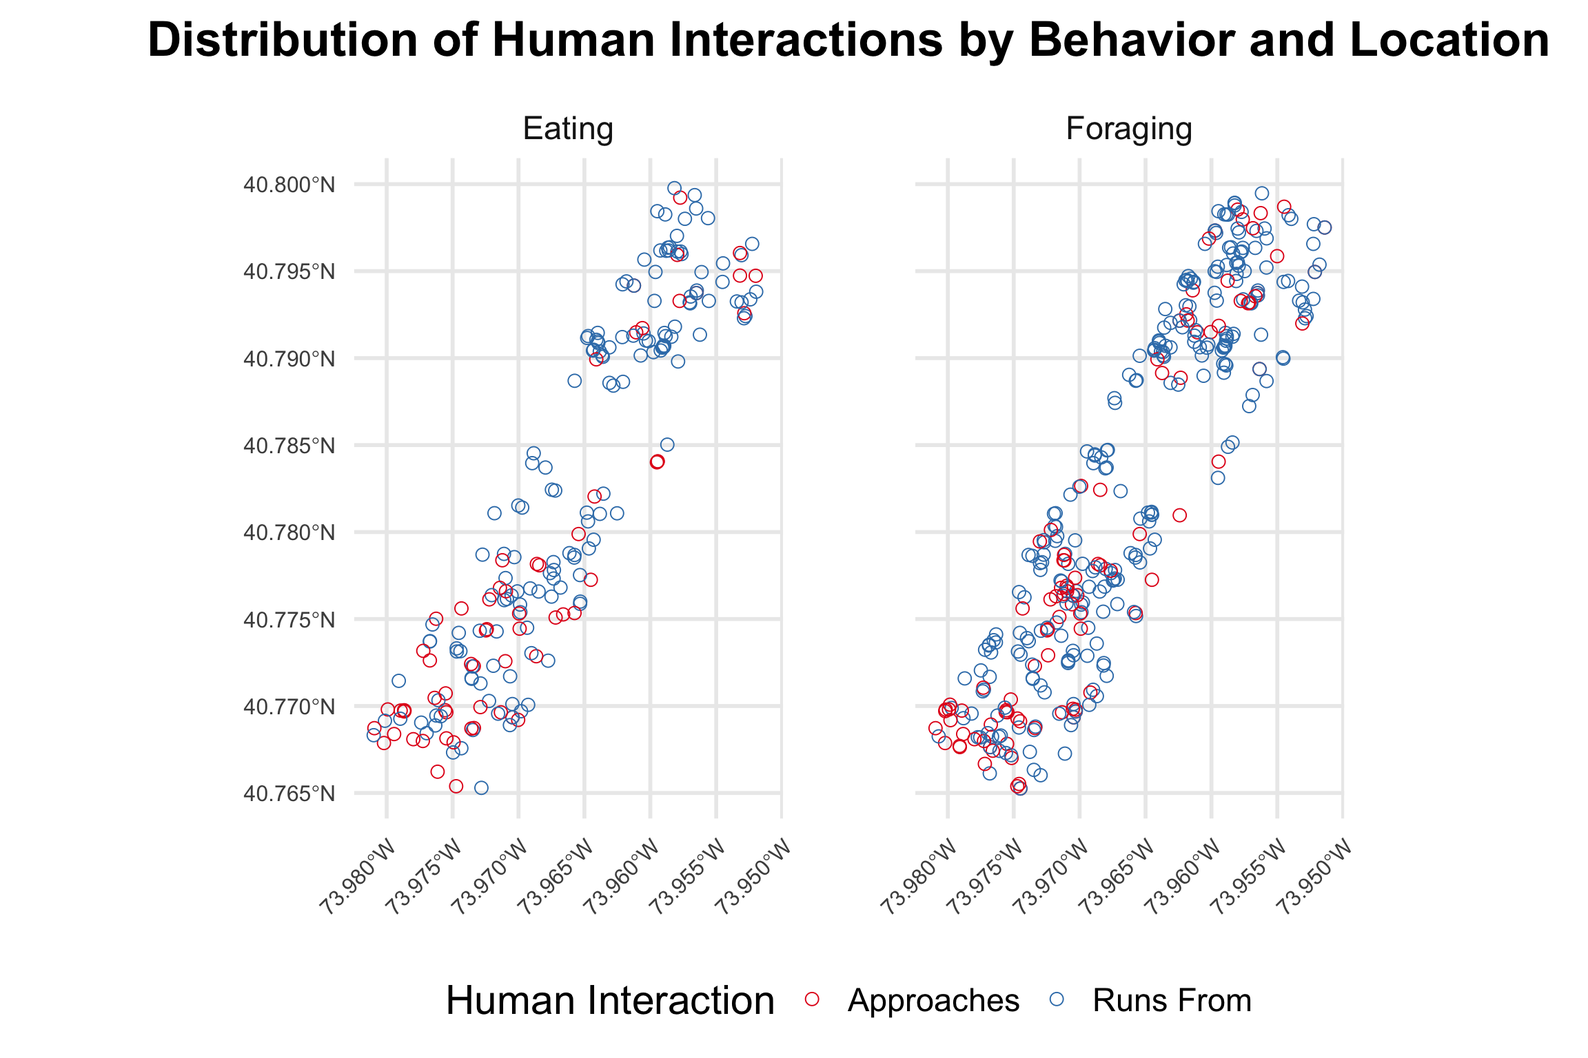
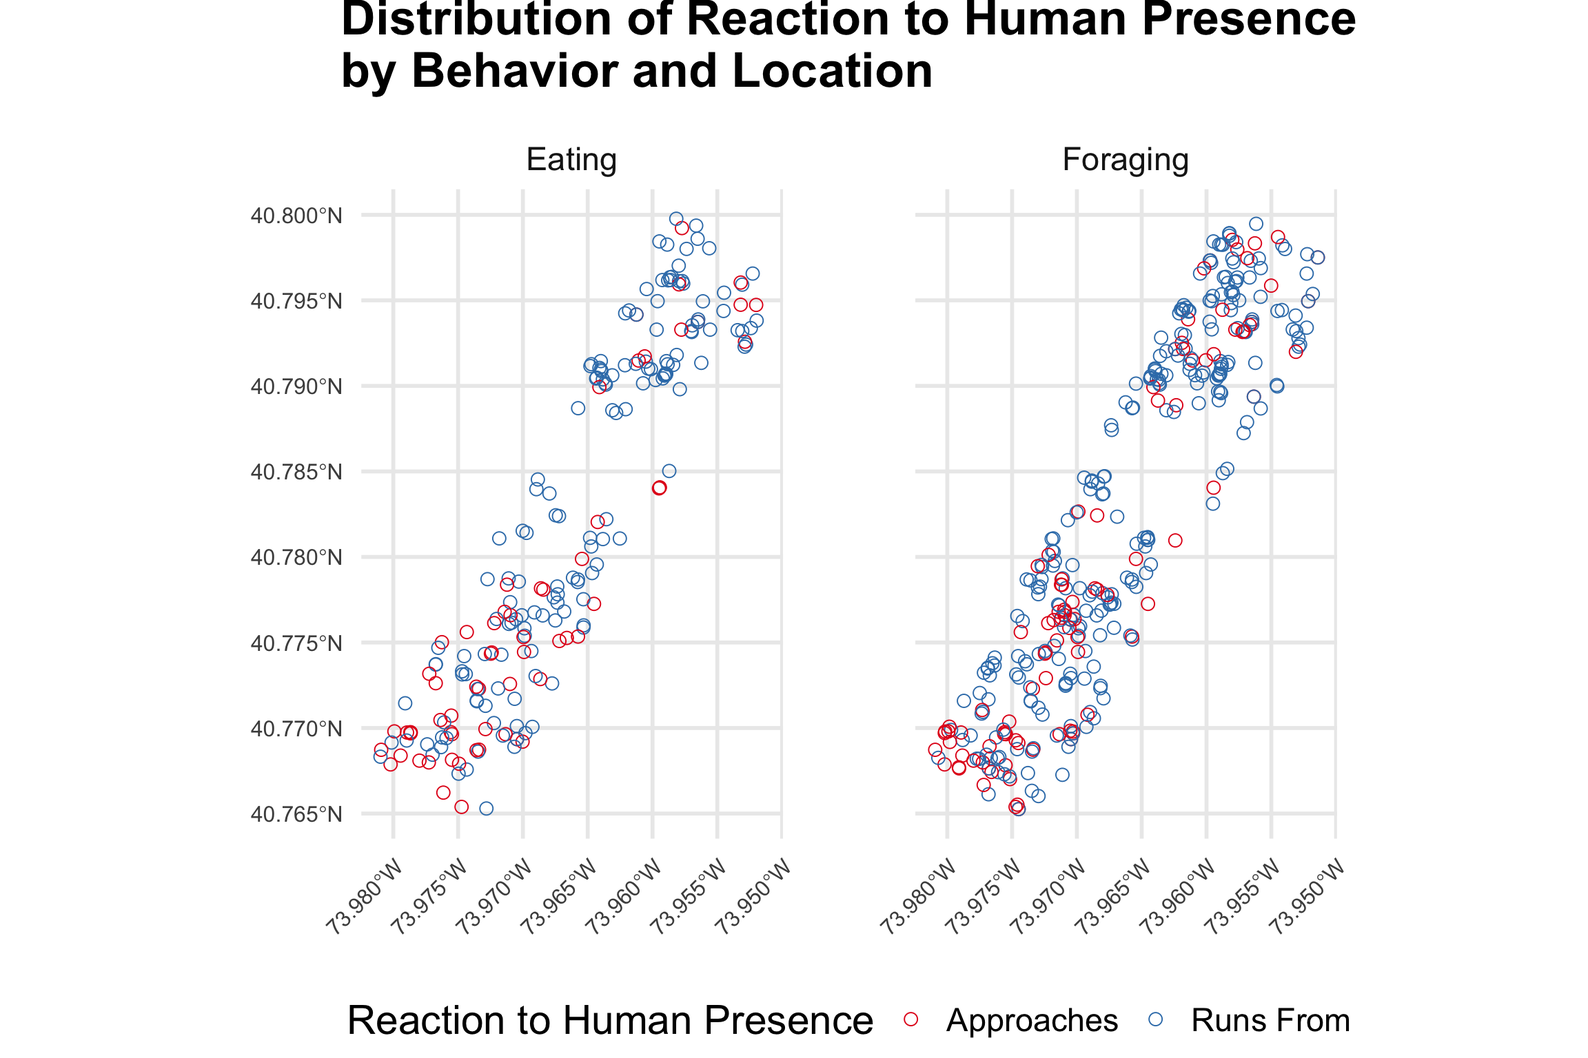
Updates

Changed region(s): [[0.0938, 0.0, 1.0, 0.875], [0.5625, 0.0938, 0.8438, 0.875], [0.2188, 0.9375, 0.8438, 1.0]]

diff --git a/docs/results.html b/docs/results.html
@@ -455,41 +455,44 @@ pre > code.sourceCode > span > a:first-child::before { text-decoration: underlin
 <div class="cell">
 <details class="code-fold">
 <summary>Code</summary>
-<div class="sourceCode cell-code" id="cb6"><pre class="sourceCode r code-with-copy"><code class="sourceCode r"><span id="cb6-1"><a href="#cb6-1" aria-hidden="true" tabindex="-1"></a>bubble_data <span class="ot">&lt;-</span> squirrel_data <span class="sc">|&gt;</span></span>
-<span id="cb6-2"><a href="#cb6-2" aria-hidden="true" tabindex="-1"></a>  <span class="fu">select</span>(X, Y, Eating, Foraging, Approaches, Runs.from) <span class="sc">|&gt;</span></span>
-<span id="cb6-3"><a href="#cb6-3" aria-hidden="true" tabindex="-1"></a>  <span class="fu">pivot_longer</span>(</span>
-<span id="cb6-4"><a href="#cb6-4" aria-hidden="true" tabindex="-1"></a>    <span class="at">cols =</span> <span class="fu">c</span>(Eating, Foraging),</span>
-<span id="cb6-5"><a href="#cb6-5" aria-hidden="true" tabindex="-1"></a>    <span class="at">names_to =</span> <span class="st">"Behavior"</span>,</span>
-<span id="cb6-6"><a href="#cb6-6" aria-hidden="true" tabindex="-1"></a>    <span class="at">values_to =</span> <span class="st">"Observed_Behavior"</span></span>
-<span id="cb6-7"><a href="#cb6-7" aria-hidden="true" tabindex="-1"></a>  ) <span class="sc">|&gt;</span></span>
-<span id="cb6-8"><a href="#cb6-8" aria-hidden="true" tabindex="-1"></a>  <span class="fu">pivot_longer</span>(</span>
-<span id="cb6-9"><a href="#cb6-9" aria-hidden="true" tabindex="-1"></a>    <span class="at">cols =</span> <span class="fu">c</span>(Approaches, Runs.from),</span>
-<span id="cb6-10"><a href="#cb6-10" aria-hidden="true" tabindex="-1"></a>    <span class="at">names_to =</span> <span class="st">"Interaction"</span>,</span>
-<span id="cb6-11"><a href="#cb6-11" aria-hidden="true" tabindex="-1"></a>    <span class="at">values_to =</span> <span class="st">"Observed_Interaction"</span></span>
-<span id="cb6-12"><a href="#cb6-12" aria-hidden="true" tabindex="-1"></a>  ) <span class="sc">|&gt;</span></span>
-<span id="cb6-13"><a href="#cb6-13" aria-hidden="true" tabindex="-1"></a>  <span class="fu">filter</span>(Observed_Behavior <span class="sc">==</span> <span class="st">"true"</span> <span class="sc">&amp;</span> Observed_Interaction <span class="sc">==</span> <span class="st">"true"</span>) <span class="sc">|&gt;</span></span>
-<span id="cb6-14"><a href="#cb6-14" aria-hidden="true" tabindex="-1"></a>  <span class="fu">group_by</span>(X, Y, Behavior, Interaction) <span class="sc">|&gt;</span></span>
-<span id="cb6-15"><a href="#cb6-15" aria-hidden="true" tabindex="-1"></a>  <span class="fu">summarize</span>(<span class="at">Count =</span> <span class="fu">n</span>(), <span class="at">.groups =</span> <span class="st">"drop"</span>) <span class="sc">|&gt;</span></span>
-<span id="cb6-16"><a href="#cb6-16" aria-hidden="true" tabindex="-1"></a>  <span class="fu">st_as_sf</span>(<span class="at">coords =</span> <span class="fu">c</span>(<span class="st">"X"</span>, <span class="st">"Y"</span>), <span class="at">crs =</span> <span class="dv">4326</span>)</span>
-<span id="cb6-17"><a href="#cb6-17" aria-hidden="true" tabindex="-1"></a></span>
-<span id="cb6-18"><a href="#cb6-18" aria-hidden="true" tabindex="-1"></a><span class="co"># Plotting using geom_sf</span></span>
-<span id="cb6-19"><a href="#cb6-19" aria-hidden="true" tabindex="-1"></a><span class="fu">ggplot</span>() <span class="sc">+</span></span>
-<span id="cb6-20"><a href="#cb6-20" aria-hidden="true" tabindex="-1"></a>  <span class="fu">geom_sf</span>(<span class="at">data =</span> bubble_data, <span class="fu">aes</span>(<span class="at">color =</span> Interaction), <span class="at">size =</span> <span class="dv">3</span>, <span class="at">shape =</span> <span class="dv">1</span>, <span class="at">alpha =</span> <span class="dv">1</span>) <span class="sc">+</span></span>
-<span id="cb6-21"><a href="#cb6-21" aria-hidden="true" tabindex="-1"></a>  <span class="fu">facet_wrap</span>(<span class="sc">~</span>Behavior) <span class="sc">+</span></span>
-<span id="cb6-22"><a href="#cb6-22" aria-hidden="true" tabindex="-1"></a>  <span class="fu">labs</span>(</span>
-<span id="cb6-23"><a href="#cb6-23" aria-hidden="true" tabindex="-1"></a>    <span class="at">title =</span> <span class="fu">expression</span>(<span class="fu">bold</span>(<span class="st">"Distribution of Human Interactions by Behavior and Location"</span>)),</span>
-<span id="cb6-24"><a href="#cb6-24" aria-hidden="true" tabindex="-1"></a>    <span class="at">size =</span> <span class="st">"Interaction Count"</span>,</span>
-<span id="cb6-25"><a href="#cb6-25" aria-hidden="true" tabindex="-1"></a>    <span class="at">color =</span> <span class="st">"Human Interaction"</span></span>
-<span id="cb6-26"><a href="#cb6-26" aria-hidden="true" tabindex="-1"></a>  ) <span class="sc">+</span></span>
-<span id="cb6-27"><a href="#cb6-27" aria-hidden="true" tabindex="-1"></a>  <span class="fu">theme_minimal</span>(<span class="dv">22</span>) <span class="sc">+</span></span>
-<span id="cb6-28"><a href="#cb6-28" aria-hidden="true" tabindex="-1"></a>  <span class="fu">scale_color_brewer</span>(<span class="at">palette =</span> <span class="st">"Set1"</span>,</span>
-<span id="cb6-29"><a href="#cb6-29" aria-hidden="true" tabindex="-1"></a>                     <span class="at">labels =</span> <span class="fu">c</span>(<span class="st">"Approaches"</span> <span class="ot">=</span> <span class="st">"Approaches"</span>, </span>
-<span id="cb6-30"><a href="#cb6-30" aria-hidden="true" tabindex="-1"></a>                                <span class="st">"Runs.from"</span> <span class="ot">=</span> <span class="st">"Runs From"</span>)) <span class="sc">+</span></span>
-<span id="cb6-31"><a href="#cb6-31" aria-hidden="true" tabindex="-1"></a>  <span class="fu">theme</span>(<span class="at">axis.text.x =</span> <span class="fu">element_text</span>(<span class="at">angle =</span> <span class="dv">45</span>, <span class="at">hjust =</span> <span class="dv">1</span>, <span class="at">size =</span> <span class="dv">12</span>), </span>
-<span id="cb6-32"><a href="#cb6-32" aria-hidden="true" tabindex="-1"></a>        <span class="at">axis.text.y =</span> <span class="fu">element_text</span>(<span class="at">size =</span> <span class="dv">12</span>), </span>
-<span id="cb6-33"><a href="#cb6-33" aria-hidden="true" tabindex="-1"></a>        <span class="at">panel.spacing =</span> <span class="fu">unit</span>(<span class="dv">5</span>, <span class="st">"lines"</span>),</span>
-<span id="cb6-34"><a href="#cb6-34" aria-hidden="true" tabindex="-1"></a>        <span class="at">legend.position =</span> <span class="st">"bottom"</span>,</span>
-<span id="cb6-35"><a href="#cb6-35" aria-hidden="true" tabindex="-1"></a>        <span class="at">plot.title =</span> <span class="fu">element_text</span>(<span class="at">hjust =</span> <span class="fl">0.5</span>) )</span></code><button title="Copy to Clipboard" class="code-copy-button"><i class="bi"></i></button></pre></div>
+<div class="sourceCode cell-code" id="cb6"><pre class="sourceCode r code-with-copy"><code class="sourceCode r"><span id="cb6-1"><a href="#cb6-1" aria-hidden="true" tabindex="-1"></a><span class="co"># Data for the plot</span></span>
+<span id="cb6-2"><a href="#cb6-2" aria-hidden="true" tabindex="-1"></a>bubble_data <span class="ot">&lt;-</span> squirrel_data <span class="sc">|&gt;</span></span>
+<span id="cb6-3"><a href="#cb6-3" aria-hidden="true" tabindex="-1"></a>  <span class="fu">select</span>(X, Y, Eating, Foraging, Approaches, Runs.from) <span class="sc">|&gt;</span></span>
+<span id="cb6-4"><a href="#cb6-4" aria-hidden="true" tabindex="-1"></a>  <span class="fu">pivot_longer</span>(</span>
+<span id="cb6-5"><a href="#cb6-5" aria-hidden="true" tabindex="-1"></a>    <span class="at">cols =</span> <span class="fu">c</span>(Eating, Foraging),</span>
+<span id="cb6-6"><a href="#cb6-6" aria-hidden="true" tabindex="-1"></a>    <span class="at">names_to =</span> <span class="st">"Behavior"</span>,</span>
+<span id="cb6-7"><a href="#cb6-7" aria-hidden="true" tabindex="-1"></a>    <span class="at">values_to =</span> <span class="st">"Observed_Behavior"</span></span>
+<span id="cb6-8"><a href="#cb6-8" aria-hidden="true" tabindex="-1"></a>  ) <span class="sc">|&gt;</span></span>
+<span id="cb6-9"><a href="#cb6-9" aria-hidden="true" tabindex="-1"></a>  <span class="fu">pivot_longer</span>(</span>
+<span id="cb6-10"><a href="#cb6-10" aria-hidden="true" tabindex="-1"></a>    <span class="at">cols =</span> <span class="fu">c</span>(Approaches, Runs.from),</span>
+<span id="cb6-11"><a href="#cb6-11" aria-hidden="true" tabindex="-1"></a>    <span class="at">names_to =</span> <span class="st">"Interaction"</span>,</span>
+<span id="cb6-12"><a href="#cb6-12" aria-hidden="true" tabindex="-1"></a>    <span class="at">values_to =</span> <span class="st">"Observed_Interaction"</span></span>
+<span id="cb6-13"><a href="#cb6-13" aria-hidden="true" tabindex="-1"></a>  ) <span class="sc">|&gt;</span></span>
+<span id="cb6-14"><a href="#cb6-14" aria-hidden="true" tabindex="-1"></a>  <span class="fu">filter</span>(Observed_Behavior <span class="sc">==</span> <span class="st">"true"</span> <span class="sc">&amp;</span> Observed_Interaction <span class="sc">==</span> <span class="st">"true"</span>) <span class="sc">|&gt;</span></span>
+<span id="cb6-15"><a href="#cb6-15" aria-hidden="true" tabindex="-1"></a>  <span class="fu">group_by</span>(X, Y, Behavior, Interaction) <span class="sc">|&gt;</span></span>
+<span id="cb6-16"><a href="#cb6-16" aria-hidden="true" tabindex="-1"></a>  <span class="fu">summarize</span>(<span class="at">Count =</span> <span class="fu">n</span>(), <span class="at">.groups =</span> <span class="st">"drop"</span>) <span class="sc">|&gt;</span></span>
+<span id="cb6-17"><a href="#cb6-17" aria-hidden="true" tabindex="-1"></a>  <span class="fu">st_as_sf</span>(<span class="at">coords =</span> <span class="fu">c</span>(<span class="st">"X"</span>, <span class="st">"Y"</span>), <span class="at">crs =</span> <span class="dv">4326</span>)</span>
+<span id="cb6-18"><a href="#cb6-18" aria-hidden="true" tabindex="-1"></a></span>
+<span id="cb6-19"><a href="#cb6-19" aria-hidden="true" tabindex="-1"></a><span class="co"># Plotting accurate spatial distribution using geom_sf</span></span>
+<span id="cb6-20"><a href="#cb6-20" aria-hidden="true" tabindex="-1"></a><span class="fu">ggplot</span>() <span class="sc">+</span></span>
+<span id="cb6-21"><a href="#cb6-21" aria-hidden="true" tabindex="-1"></a>  <span class="fu">geom_sf</span>(<span class="at">data =</span> bubble_data, <span class="fu">aes</span>(<span class="at">color =</span> Interaction), <span class="at">size =</span> <span class="dv">3</span>, <span class="at">shape =</span> <span class="dv">1</span>, <span class="at">alpha =</span> <span class="dv">1</span>) <span class="sc">+</span></span>
+<span id="cb6-22"><a href="#cb6-22" aria-hidden="true" tabindex="-1"></a>  <span class="fu">facet_wrap</span>(<span class="sc">~</span>Behavior) <span class="sc">+</span></span>
+<span id="cb6-23"><a href="#cb6-23" aria-hidden="true" tabindex="-1"></a>  <span class="fu">labs</span>(</span>
+<span id="cb6-24"><a href="#cb6-24" aria-hidden="true" tabindex="-1"></a>    <span class="at">title =</span> <span class="fu">expression</span>(<span class="fu">bold</span>(<span class="st">"Distribution of Reaction to Human Presence</span><span class="sc">\n</span><span class="st">by Behavior and Location"</span>)),</span>
+<span id="cb6-25"><a href="#cb6-25" aria-hidden="true" tabindex="-1"></a>    <span class="at">size =</span> <span class="st">"Interaction Count"</span>,</span>
+<span id="cb6-26"><a href="#cb6-26" aria-hidden="true" tabindex="-1"></a>    <span class="at">color =</span> <span class="st">"Reaction to Human Presence"</span></span>
+<span id="cb6-27"><a href="#cb6-27" aria-hidden="true" tabindex="-1"></a>  ) <span class="sc">+</span></span>
+<span id="cb6-28"><a href="#cb6-28" aria-hidden="true" tabindex="-1"></a>  <span class="fu">theme_minimal</span>(<span class="dv">22</span>) <span class="sc">+</span></span>
+<span id="cb6-29"><a href="#cb6-29" aria-hidden="true" tabindex="-1"></a>  <span class="fu">scale_color_brewer</span>(<span class="at">palette =</span> <span class="st">"Set1"</span>,</span>
+<span id="cb6-30"><a href="#cb6-30" aria-hidden="true" tabindex="-1"></a>                     <span class="at">labels =</span> <span class="fu">c</span>(<span class="st">"Approaches"</span> <span class="ot">=</span> <span class="st">"Approaches"</span>, </span>
+<span id="cb6-31"><a href="#cb6-31" aria-hidden="true" tabindex="-1"></a>                                <span class="st">"Runs.from"</span> <span class="ot">=</span> <span class="st">"Runs From"</span>)) <span class="sc">+</span></span>
+<span id="cb6-32"><a href="#cb6-32" aria-hidden="true" tabindex="-1"></a>  <span class="fu">theme</span>(<span class="at">axis.text.x =</span> <span class="fu">element_text</span>(<span class="at">angle =</span> <span class="dv">45</span>, <span class="at">hjust =</span> <span class="dv">1</span>, <span class="at">size =</span> <span class="dv">12</span>), </span>
+<span id="cb6-33"><a href="#cb6-33" aria-hidden="true" tabindex="-1"></a>        <span class="at">axis.text.y =</span> <span class="fu">element_text</span>(<span class="at">size =</span> <span class="dv">12</span>), </span>
+<span id="cb6-34"><a href="#cb6-34" aria-hidden="true" tabindex="-1"></a>        <span class="at">panel.spacing =</span> <span class="fu">unit</span>(<span class="dv">5</span>, <span class="st">"lines"</span>),</span>
+<span id="cb6-35"><a href="#cb6-35" aria-hidden="true" tabindex="-1"></a>        <span class="at">legend.position =</span> <span class="st">"bottom"</span>,</span>
+<span id="cb6-36"><a href="#cb6-36" aria-hidden="true" tabindex="-1"></a>        <span class="at">plot.title =</span> <span class="fu">element_text</span>(<span class="at">hjust =</span> <span class="fl">0.5</span>),</span>
+<span id="cb6-37"><a href="#cb6-37" aria-hidden="true" tabindex="-1"></a>        <span class="at">plot.margin =</span> <span class="fu">margin</span>(<span class="at">t =</span> <span class="dv">28</span>)</span>
+<span id="cb6-38"><a href="#cb6-38" aria-hidden="true" tabindex="-1"></a>        )</span></code><button title="Copy to Clipboard" class="code-copy-button"><i class="bi"></i></button></pre></div>
 </details>
 <div class="cell-output-display">
 <div>
@@ -499,8 +502,7 @@ pre > code.sourceCode > span > a:first-child::before { text-decoration: underlin
 </div>
 </div>
 </div>
-<p>Generally, there are more squirrels running from humans rather than approaching them. For both foraging and eating squirrels, more of them are likely to approach humans in the southern part of the park. This pattern might be due to higher foot traffic and more frequent feeding by visitors in the southern areas, potentially making squirrels there more habituated to human presence.</p>
-<p>Then we exploring how do these two variables, location and human interaction attitude, related to the sound squirrels made.</p>
+<p>Generally, there are more squirrels running from humans rather than approaching them, as this is a natural reaction by wild life. For squirrels that are either foraging or eating, more of them are more likely to approach humans in the southern part of the park. This pattern might be due to higher foot traffic and more frequent feeding by visitors in the southern areas, potentially making squirrels there more habituated to human presence.</p>
 <div class="cell">
 <details class="code-fold">
 <summary>Code</summary>
@@ -525,30 +527,36 @@ pre > code.sourceCode > span > a:first-child::before { text-decoration: underlin
 <span id="cb7-19"><a href="#cb7-19" aria-hidden="true" tabindex="-1"></a>  <span class="fu">mutate</span>(<span class="at">Interaction =</span> <span class="fu">str_replace</span>(Interaction, <span class="st">"Runs.from"</span>, <span class="st">"Runs from"</span>))</span>
 <span id="cb7-20"><a href="#cb7-20" aria-hidden="true" tabindex="-1"></a></span>
 <span id="cb7-21"><a href="#cb7-21" aria-hidden="true" tabindex="-1"></a><span class="fu">ggplot</span>(sound_interaction,</span>
-<span id="cb7-22"><a href="#cb7-22" aria-hidden="true" tabindex="-1"></a>       <span class="fu">aes</span>(<span class="at">axis1 =</span> Location, <span class="at">axis2 =</span> Sound, <span class="at">axis3 =</span> Interaction, <span class="at">y =</span> Freq, <span class="at">fill =</span> Sound)) <span class="sc">+</span></span>
+<span id="cb7-22"><a href="#cb7-22" aria-hidden="true" tabindex="-1"></a>       <span class="fu">aes</span>(<span class="at">axis1 =</span> Interaction, <span class="at">axis2 =</span> Sound, <span class="at">axis3 =</span> Location, <span class="at">y =</span> Freq, <span class="at">fill =</span> Interaction)) <span class="sc">+</span></span>
 <span id="cb7-23"><a href="#cb7-23" aria-hidden="true" tabindex="-1"></a>  <span class="fu">geom_alluvium</span>(<span class="at">color =</span> <span class="st">"grey"</span>) <span class="sc">+</span></span>
 <span id="cb7-24"><a href="#cb7-24" aria-hidden="true" tabindex="-1"></a>  <span class="fu">geom_stratum</span>() <span class="sc">+</span></span>
 <span id="cb7-25"><a href="#cb7-25" aria-hidden="true" tabindex="-1"></a>  <span class="fu">geom_text</span>(<span class="at">stat =</span> <span class="st">"stratum"</span>, </span>
 <span id="cb7-26"><a href="#cb7-26" aria-hidden="true" tabindex="-1"></a>            <span class="fu">aes</span>(<span class="at">label =</span> <span class="fu">after_stat</span>(stratum)),</span>
 <span id="cb7-27"><a href="#cb7-27" aria-hidden="true" tabindex="-1"></a>            <span class="at">size =</span> <span class="fl">3.2</span>) <span class="sc">+</span></span>
 <span id="cb7-28"><a href="#cb7-28" aria-hidden="true" tabindex="-1"></a>  <span class="fu">labs</span>(</span>
-<span id="cb7-29"><a href="#cb7-29" aria-hidden="true" tabindex="-1"></a>    <span class="at">title =</span> <span class="fu">expression</span>(<span class="fu">bold</span>(<span class="st">"Distribution of Squirrel Vocalizations</span><span class="sc">\n</span><span class="st">by Location and Response to Humans"</span>)),</span>
-<span id="cb7-30"><a href="#cb7-30" aria-hidden="true" tabindex="-1"></a>    <span class="at">x =</span> <span class="st">"Categories"</span>,</span>
-<span id="cb7-31"><a href="#cb7-31" aria-hidden="true" tabindex="-1"></a>    <span class="at">y =</span> <span class="st">"Count of Observed Behaviors"</span></span>
-<span id="cb7-32"><a href="#cb7-32" aria-hidden="true" tabindex="-1"></a>  ) <span class="sc">+</span></span>
-<span id="cb7-33"><a href="#cb7-33" aria-hidden="true" tabindex="-1"></a>  <span class="fu">theme_minimal</span>(<span class="dv">16</span>) <span class="sc">+</span></span>
-<span id="cb7-34"><a href="#cb7-34" aria-hidden="true" tabindex="-1"></a>  <span class="fu">theme</span>(<span class="at">plot.title =</span> <span class="fu">element_text</span>(<span class="at">hjust =</span> <span class="fl">0.5</span>)) <span class="sc">+</span></span>
-<span id="cb7-35"><a href="#cb7-35" aria-hidden="true" tabindex="-1"></a>  <span class="fu">scale_fill_brewer</span>(<span class="at">palette =</span> <span class="st">"Set3"</span>, <span class="at">na.translate =</span> <span class="cn">FALSE</span>)</span></code><button title="Copy to Clipboard" class="code-copy-button"><i class="bi"></i></button></pre></div>
+<span id="cb7-29"><a href="#cb7-29" aria-hidden="true" tabindex="-1"></a>    <span class="at">title =</span> <span class="fu">expression</span>(<span class="fu">bold</span>(<span class="st">"Distribution of Squirrel Responses to Human Presence</span><span class="sc">\n</span><span class="st">by Vocalizations and Locations"</span>)),</span>
+<span id="cb7-30"><a href="#cb7-30" aria-hidden="true" tabindex="-1"></a>    <span class="at">y =</span> <span class="st">"Count of Observed Behaviors"</span></span>
+<span id="cb7-31"><a href="#cb7-31" aria-hidden="true" tabindex="-1"></a>  ) <span class="sc">+</span></span>
+<span id="cb7-32"><a href="#cb7-32" aria-hidden="true" tabindex="-1"></a>  <span class="fu">theme_minimal</span>(<span class="dv">16</span>) <span class="sc">+</span></span>
+<span id="cb7-33"><a href="#cb7-33" aria-hidden="true" tabindex="-1"></a>  <span class="fu">theme</span>(</span>
+<span id="cb7-34"><a href="#cb7-34" aria-hidden="true" tabindex="-1"></a>    <span class="at">plot.title =</span> <span class="fu">element_text</span>(<span class="at">hjust =</span> <span class="fl">0.5</span>),</span>
+<span id="cb7-35"><a href="#cb7-35" aria-hidden="true" tabindex="-1"></a>    <span class="at">plot.margin =</span> <span class="fu">margin</span>(<span class="at">t =</span> <span class="dv">22</span>)) <span class="sc">+</span></span>
+<span id="cb7-36"><a href="#cb7-36" aria-hidden="true" tabindex="-1"></a>  <span class="fu">scale_fill_brewer</span>(<span class="at">palette =</span> <span class="st">"Set3"</span>, <span class="at">na.translate =</span> <span class="cn">FALSE</span>) <span class="sc">+</span></span>
+<span id="cb7-37"><a href="#cb7-37" aria-hidden="true" tabindex="-1"></a>  <span class="fu">scale_x_discrete</span>(</span>
+<span id="cb7-38"><a href="#cb7-38" aria-hidden="true" tabindex="-1"></a>    <span class="at">limits =</span> <span class="fu">c</span>(<span class="st">"Interaction"</span>, <span class="st">"Sound"</span>, <span class="st">"Location"</span>),</span>
+<span id="cb7-39"><a href="#cb7-39" aria-hidden="true" tabindex="-1"></a>    <span class="at">labels =</span> <span class="fu">c</span>(<span class="st">"Reaction"</span>, <span class="st">"Vocalization"</span>, <span class="st">"Location"</span>)</span>
+<span id="cb7-40"><a href="#cb7-40" aria-hidden="true" tabindex="-1"></a>  )</span></code><button title="Copy to Clipboard" class="code-copy-button"><i class="bi"></i></button></pre></div>
 </details>
 <div class="cell-output-display">
 <div>
 <figure class="figure">
-<p><img src="results_files/figure-html/unnamed-chunk-7-1.png" class="img-fluid figure-img" width="864"></p>
+<p><img src="results_files/figure-html/unnamed-chunk-7-1.png" class="img-fluid figure-img" width="1056"></p>
 </figure>
 </div>
 </div>
 </div>
-<p>Kuks are more common since squirrels make such chirpy vocal communication used for a variety of reasons. are above ground and tend to lead to indifferent reactions. Moans only occurs when squirrels see a air predator like hawk but there are few air predictors in the city so moans is the least frequent sound only for squirrels above ground and results in imediate rans away. Quaas occurs with a presence of a ground predator, like a dog or human, so squirrels tend to run away or act indifferent from human’s presence.</p>
+<p>First we want to explain the difference between three vocalizations. Kuks is a chirpy vocal communication used for a variety of reasons. Moans is a high-pitched vocal communication which can indicate the presence of an air predator such as a hawk. Quaas is an elongated vocal communication which can indicate the presence of a ground predator such as a dog.</p>
+<p>For all sightings where squirrels approaches human, they make Kuks sound regardless of their locations, indicating they do not see humans as a potential threat. Moans only occurs when squirrels run away from human and were sighted about the ground. However this sound indicate the presence of air predators. Therefore, they could be running away for a different reason. Overall squirrels seem to make Kuks and Quaas in a similar frequency in different location and with different reactions.</p>
 </section>
 </section>
 <section id="exploration-of-squirrels-of-different-primary-fur-color" class="level2" data-number="3.2">
